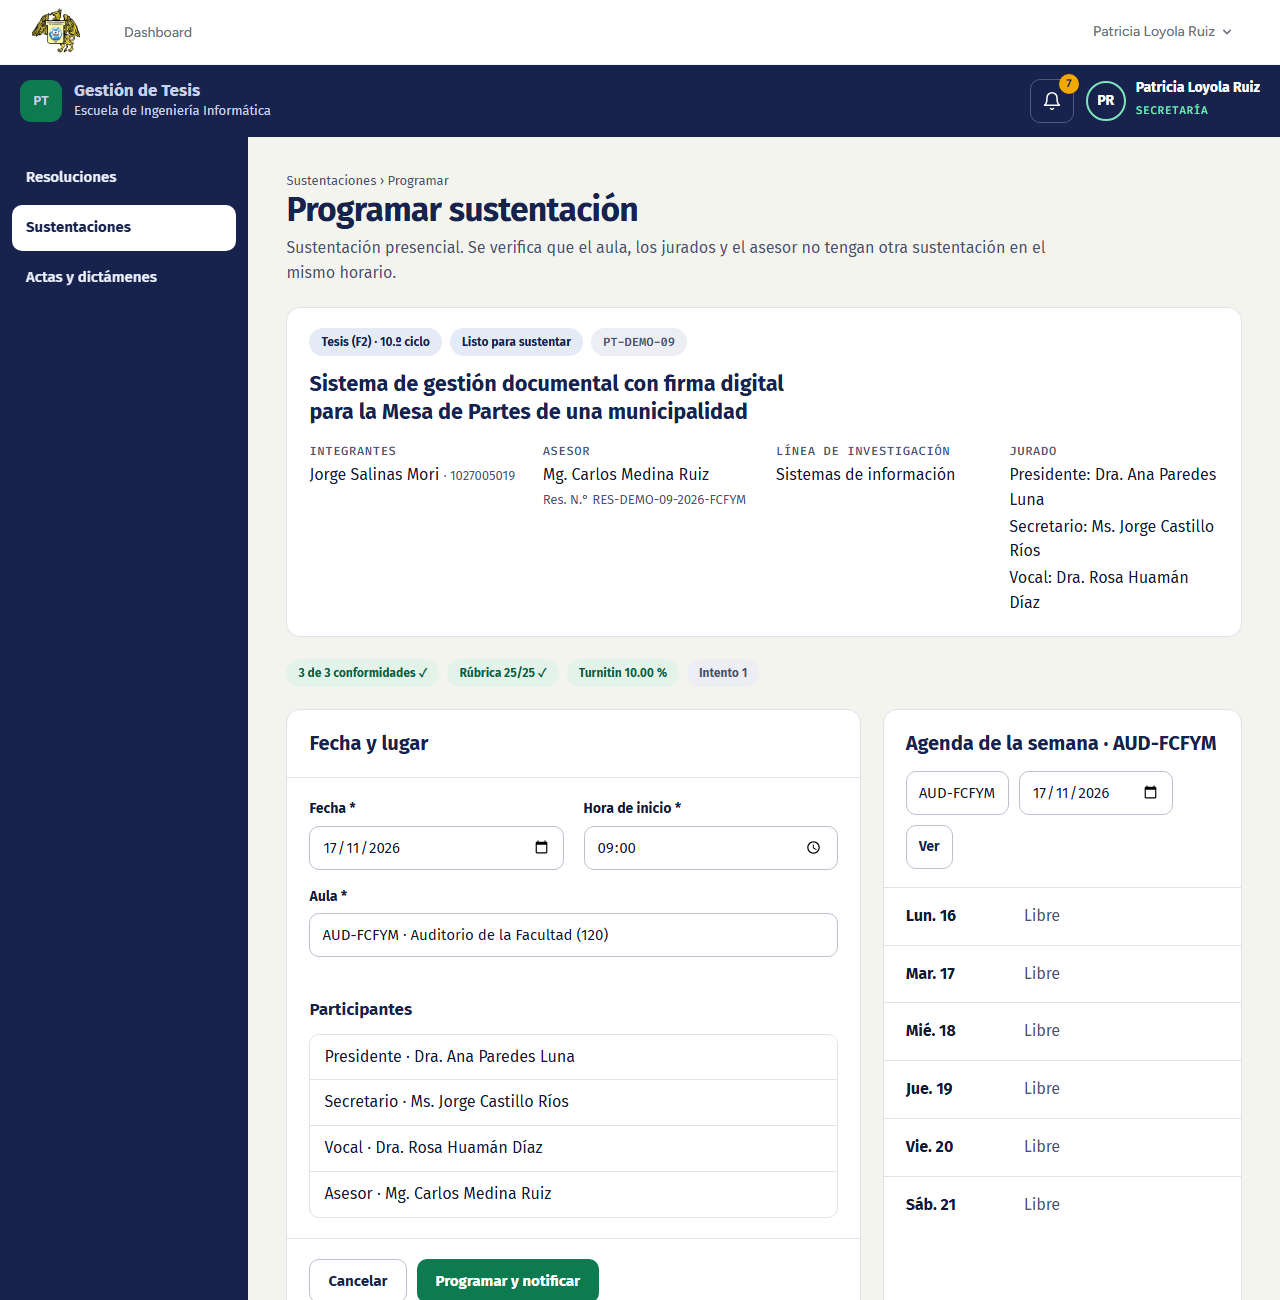
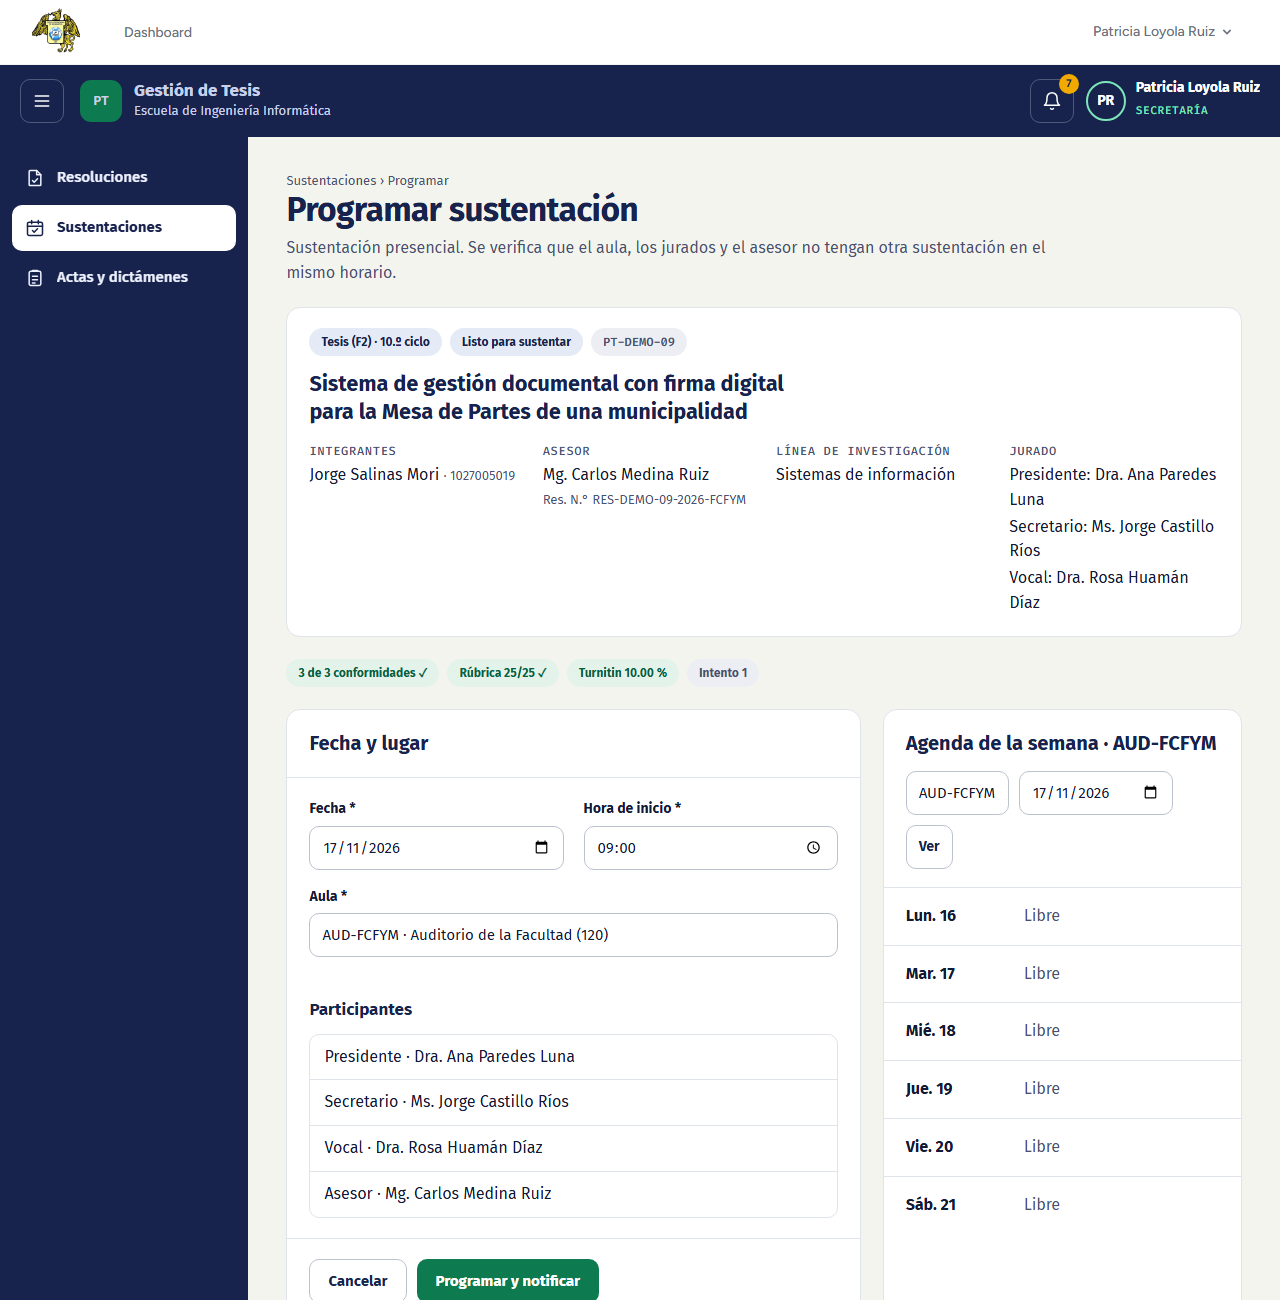
docs(tesis-proyecto-de-tesis): actualiza manual de usuario con menu plegable y coautor

Changed region(s): [[0.0, 0.1231, 0.125, 0.2154], [0.0, 0.0615, 0.25, 0.0923]]

diff --git a/app/Modules/TesisProyectoTesis/Docs/MANUAL_USUARIO.md b/app/Modules/TesisProyectoTesis/Docs/MANUAL_USUARIO.md
@@ -22,7 +22,9 @@ Esta guía explica cómo usar la sección **Gestión de Tesis** del portal de la
 1. Entra al portal con tu correo institucional y tu contraseña.
 2. Abre **Gestión de Tesis**. El sistema te lleva directamente a tu página de inicio según tu función.
    - Si eres docente y a la vez asesor y jurado, primero eliges con qué papel entrar: **Entrar como asesor** o **Entrar como jurado**.
-3. A la izquierda está el **menú** con tus opciones. Un número amarillo junto a una opción indica cuántas cosas esperan tu atención.
+3. A la izquierda está el **menú** con tus opciones. Cada opción tiene un ícono, y la de la página en la que estás aparece resaltada. Un número amarillo junto a una opción indica cuántas cosas esperan tu atención.
+   - El botón de tres rayas, arriba a la izquierda, **contrae el menú** para dejar solo los íconos y ganar espacio. Al pasar el mouse por un ícono, o al llegar a él con la tecla Tab, aparece su nombre. Pulsa el botón otra vez para **expandir el menú**. El portal recuerda tu elección en ese navegador.
+   - En el celular el menú está oculto: ábrelo con el mismo botón. Se cierra al elegir una opción, al tocar fuera de él o con la tecla Esc.
 4. Arriba a la derecha está la **campana** de avisos:
    - el número indica los avisos sin leer;
    - al pulsar un aviso («Ir a la acción →») llegas directamente a la pantalla donde debes actuar, y el aviso queda leído;
@@ -95,7 +97,9 @@ En **Inicio** ves:
    - el título, de 20 palabras como máximo (un contador te avisa);
    - el resumen y la línea de investigación;
    - los datos de la investigación.
-3. Si trabajas con un compañero, escribe su **código universitario** en «Coautor». El sistema te dice si está disponible. Un proyecto puede tener como máximo 2 estudiantes.
+3. Si trabajas con un compañero, escribe su **código universitario** en «Coautor» y pulsa **Buscar**. Un proyecto puede tener como máximo 2 estudiantes.
+   - Si está disponible, aparece un recuadro verde con su nombre y el texto «Se agregará como integrante 2 al registrar el proyecto». **No hay que pulsar otro botón**: quedará incluido cuando pulses **Registrar proyecto** al final.
+   - Si te equivocaste de compañero, pulsa **Quitar** en ese recuadro y el campo queda vacío.
 4. Llena el cronograma y, si corresponde, los recursos, colaboradores y presupuesto. Usa los botones **+ Agregar** para sumar filas.
 5. Adjunta el documento F1 en PDF y pulsa **Registrar proyecto**.
 
